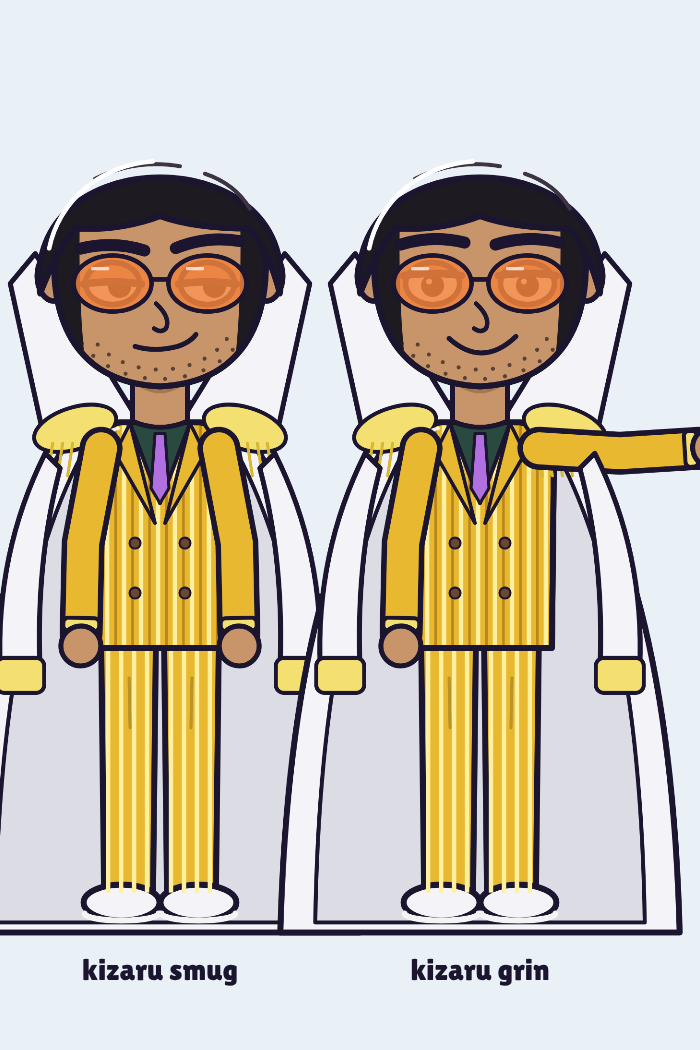
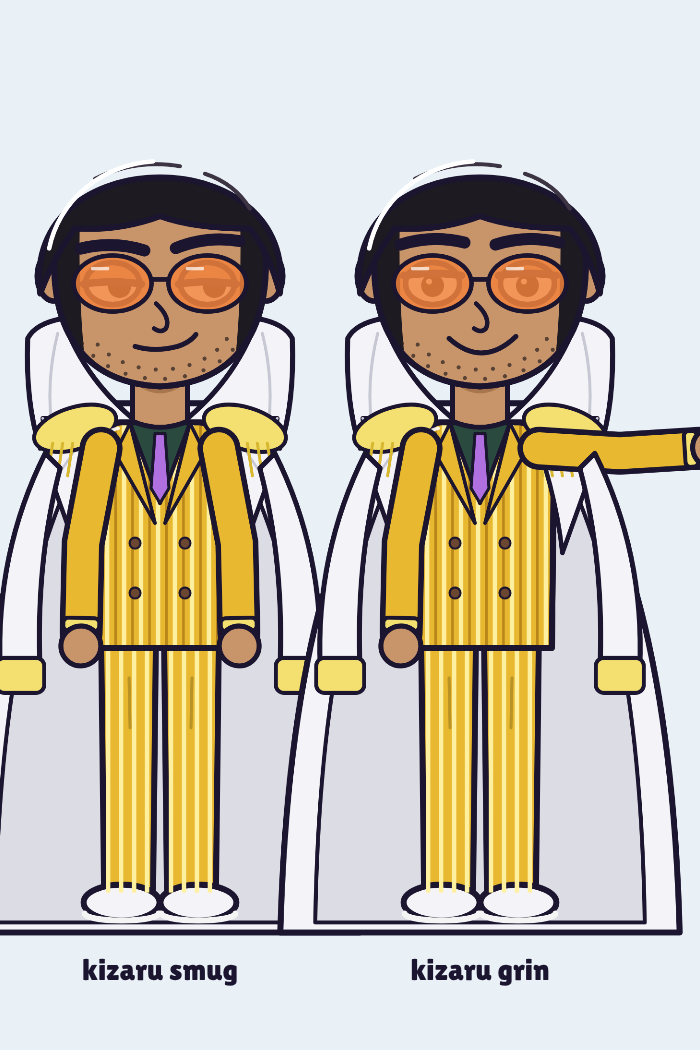
Kizaru: folded white collar around the neck and coat lapels, like the reference
Claude-Session: https://claude.ai/code/session_01LedSfqc1zbW4UvWfiqXE3c

diff --git a/engine/art.js b/engine/art.js
@@ -325,6 +325,7 @@ function drawTorso(x, L) {
     torso(); fs(x, '#e8b830', 12); x.save(); torso(); x.clip(); x.strokeStyle = '#fff0a0'; x.lineWidth = 9; for (let k = 240; k < 530; k += 34) { x.beginPath(); x.moveTo(k, 640); x.lineTo(k, 1100); x.stroke(); } x.strokeStyle = '#b8861a'; x.lineWidth = 5; for (let k = 257; k < 530; k += 34) { x.beginPath(); x.moveTo(k, 640); x.lineTo(k, 1100); x.stroke(); } x.restore(); torso(); x.lineWidth = 12; x.strokeStyle = OL; x.stroke();
     x.beginPath(); x.moveTo(320, 640); x.lineTo(380, 800); x.lineTo(440, 640); x.closePath(); fs(x, '#2a4a40', 8); x.beginPath(); x.moveTo(370, 660); x.lineTo(390, 660); x.lineTo(398, 770); x.lineTo(380, 800); x.lineTo(362, 770); x.closePath(); fs(x, '#b070e0', 6);
     for (const sd of [-1, 1]) { x.beginPath(); x.moveTo(380 + sd * 60, 640); x.lineTo(380 + sd * 10, 840); x.lineTo(380 + sd * 90, 700); x.closePath(); fs(x, '#e8b830', 7); for (const yy of [880, 980]) { x.beginPath(); x.arc(380 + sd * 50, yy, 11, 0, 7); fs(x, '#6b4630', 4); } }
+    if (L.popCollar) for (const sd of [-1, 1]) { x.beginPath(); x.moveTo(380 + sd * 95, 630); x.lineTo(380 + sd * 235, 630); x.lineTo(380 + sd * 215, 760); x.lineTo(380 + sd * 165, 900); x.quadraticCurveTo(380 + sd * 150, 760, 380 + sd * 95, 630); x.closePath(); fs(x, '#f4f4f8', 9); x.beginPath(); x.moveTo(380 + sd * 235, 630); x.lineTo(380 + sd * 175, 700); x.lineTo(380 + sd * 215, 760); x.lineWidth = 5; x.strokeStyle = '#c8c8d4'; x.stroke(); }
     for (const sd of [-1, 1]) { x.beginPath(); x.ellipse(380 + sd * 170, 650, 85, 42, sd * 0.3, 0, 7); fs(x, '#f4e070', 8); x.strokeStyle = '#d8b830'; x.lineWidth = 6; for (let k = 0; k < 6; k++) { x.beginPath(); x.moveTo(380 + sd * (115 + k * 20), 680); x.lineTo(380 + sd * (125 + k * 20), 745); x.stroke(); } }
   } else if (L.top === 'peacoat') { // short double-breasted coat with gold buttons and a high collar
     x.beginPath(); x.moveTo(232, 720); x.quadraticCurveTo(236, 650, 300, 638); x.lineTo(460, 638); x.quadraticCurveTo(524, 650, 528, 720); x.lineTo(540, 1130); x.lineTo(220, 1130); x.closePath(); fs(x, L.cloth, 12);
@@ -469,7 +470,7 @@ export function drawPerson({ who = 'host', expr = 'calm', mouth = 0, blink = fal
   if (L.swans) for (const sd of [-1, 1]) { x.beginPath(); x.moveTo(380 + sd * 120, 700); x.quadraticCurveTo(380 + sd * 320, 500, 380 + sd * 260, 160); x.lineWidth = 44; x.strokeStyle = OL; x.stroke(); x.lineWidth = 32; x.strokeStyle = '#ffffff'; x.stroke(); x.beginPath(); x.ellipse(380 + sd * 280, 150, 46, 34, 0, 0, 7); fs(x, '#ffffff', 8); x.beginPath(); x.moveTo(380 + sd * 310, 140); x.lineTo(380 + sd * 420, 120); x.lineTo(380 + sd * 310, 165); x.closePath(); fs(x, '#e8c84a', 6); }
   if (L.longWild) { x.beginPath(); x.moveTo(380, 120); const pts = [[150, 160], [60, 330], [120, 380], [20, 560], [110, 560], [60, 760], [200, 640], [230, 800], [300, 620], [460, 620], [530, 800], [560, 640], [700, 760], [650, 560], [740, 560], [640, 380], [700, 330], [610, 160]]; for (const [px, py] of pts) x.lineTo(px, py); x.closePath(); fs(x, L.hair, 10); }
   if (L.twinTails) for (const sd of [-1, 1]) { x.beginPath(); x.moveTo(380 + sd * 200, 200); x.bezierCurveTo(380 + sd * 380, 300, 380 + sd * 380, 900, 380 + sd * 300, 1150); x.lineTo(380 + sd * 230, 1100); x.bezierCurveTo(380 + sd * 280, 800, 380 + sd * 250, 400, 380 + sd * 150, 260); x.closePath(); fs(x, L.hair, 10); }
-  if (L.popCollar) for (const sd of [-1, 1]) { x.beginPath(); x.moveTo(380 + sd * 40, 640); x.lineTo(380 + sd * 250, 300); x.lineTo(380 + sd * 300, 360); x.lineTo(380 + sd * 230, 680); x.closePath(); fs(x, L.cloakCol || '#f4f4f8', 10); }
+  if (L.popCollar) for (const sd of [-1, 1]) { x.beginPath(); x.moveTo(380 + sd * 30, 650); x.quadraticCurveTo(380 + sd * 150, 560, 380 + sd * 195, 430); x.quadraticCurveTo(380 + sd * 250, 440, 380 + sd * 265, 470); x.quadraticCurveTo(380 + sd * 270, 600, 380 + sd * 240, 690); x.closePath(); fs(x, L.cloakCol || '#f4f4f8', 10); x.beginPath(); x.moveTo(380 + sd * 205, 460); x.quadraticCurveTo(380 + sd * 230, 560, 380 + sd * 215, 660); x.lineWidth = 6; x.strokeStyle = '#c8c8d4'; x.stroke(); }
   if (L.braids) crackerHair(x, L);
   if (L.sideCape) sideCape(x);
   if (L.crackerLegs) crackerLegs(x, L); else drawLegs(x, L);
